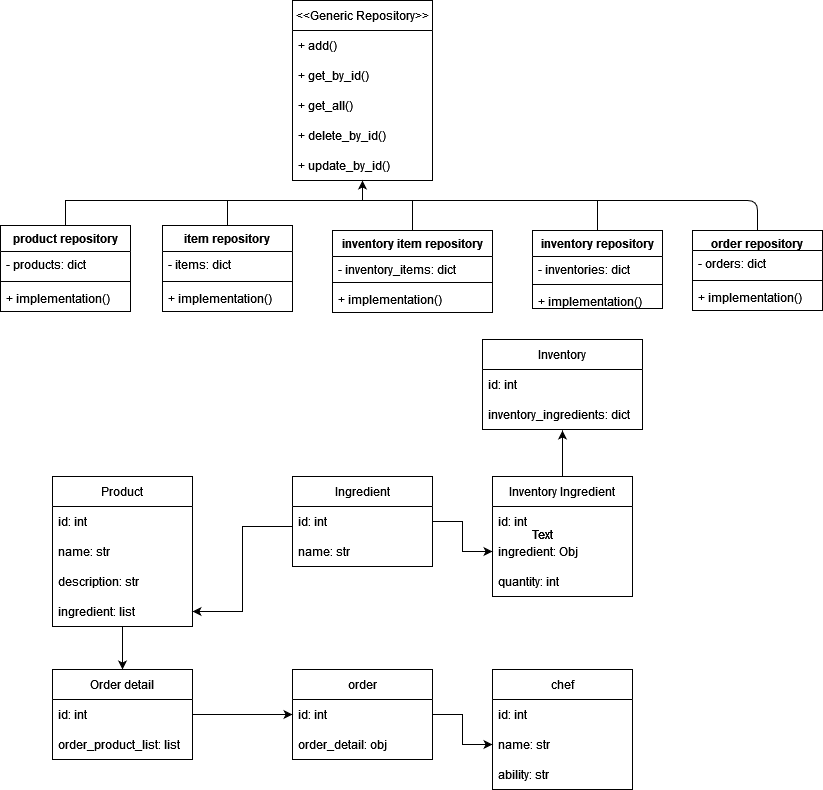
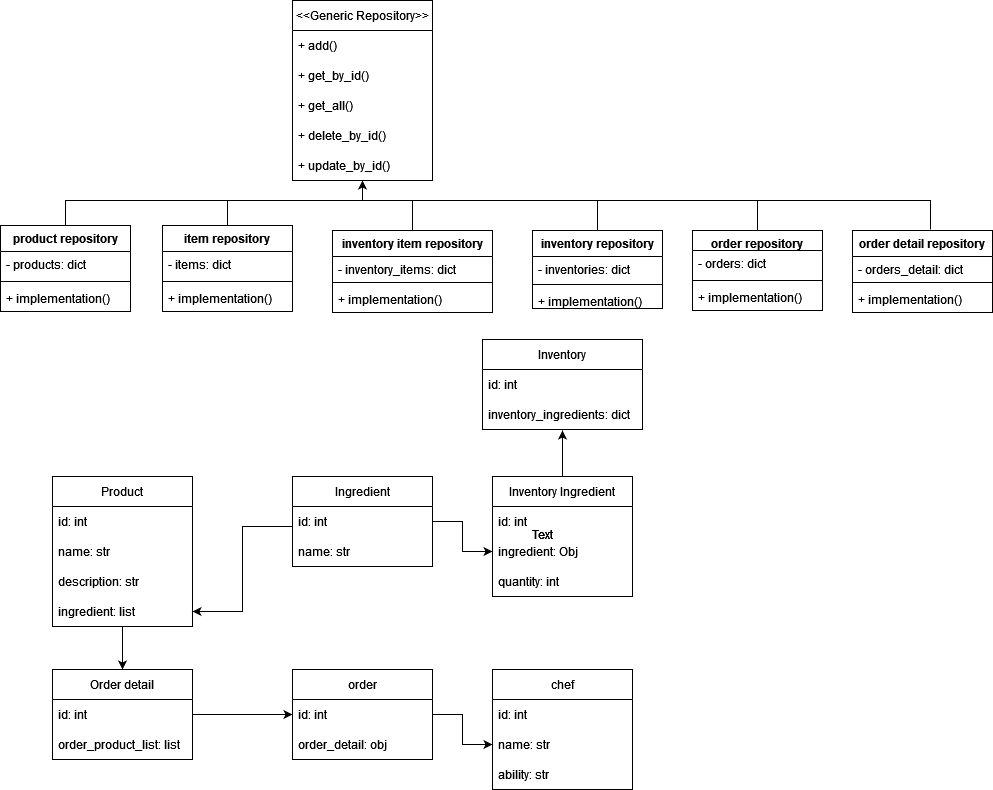
Adding order detail repository description to readme file

diff --git a/README.md b/README.md
@@ -23,10 +23,12 @@
 * Inventory Item Repository - This repository will be used to implement operations to manages inventory items entities.
 * Inventory Repository - This repository will be used to implement operations to manages inventory entities
 * Order Repository - This repository will be used to implement operations to manages order entities
+* Order Detail Repository - This repository will be used to implement operations to manages order details entities
+
 
 UML Diagram:
 
-![UML](https://github.com/eapg/EA_RESTAURANT/blob/feature/order-repository/UML_Diagram.png?raw=true)
+![UML](https://github.com/eapg/EA_RESTAURANT/blob/feature/order-detail-repository/UML_Diagram.png?raw=true)
 
 
 
